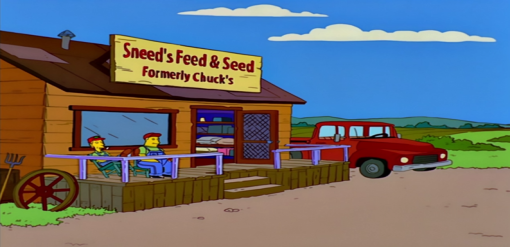
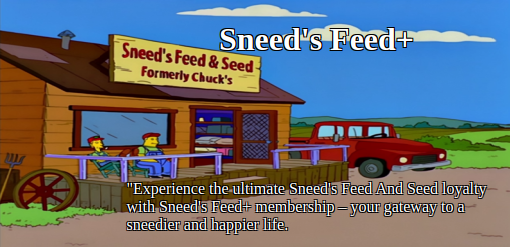
replace some card html with image background text

diff --git a/index.html b/index.html
@@ -35,12 +35,6 @@
             <p>Official Feed+ Member</p>
           </div>
           <div class="cardRight">
-            <h1>Sneed's Feed+</h1>
-            <p>
-              "Experience the ultimate Sneed's Feed And Seed loyalty with
-              Sneed's Feed+ membership – your gateway to a sneedier and happier
-              life.
-            </p>
           </div>
         </div>
         <button class="sneedCardSaveButton" id="saveButton">Save My Sneed Card!</button>

diff --git a/style.css b/style.css
@@ -76,18 +76,10 @@ body {
     flex-grow: 1;
 }
 
-
-.cardRight {
-    display: flex;
-    flex-direction: column;
-    align-items: center;
-    flex-grow: 0;
-    padding-left: 15px;
+.cardLeft p {
+    width: 100px;
 }
 
-.cardRight p {
-    margin-top: 100px;
-}
 
 #imgSquare {
     width: 100px;
